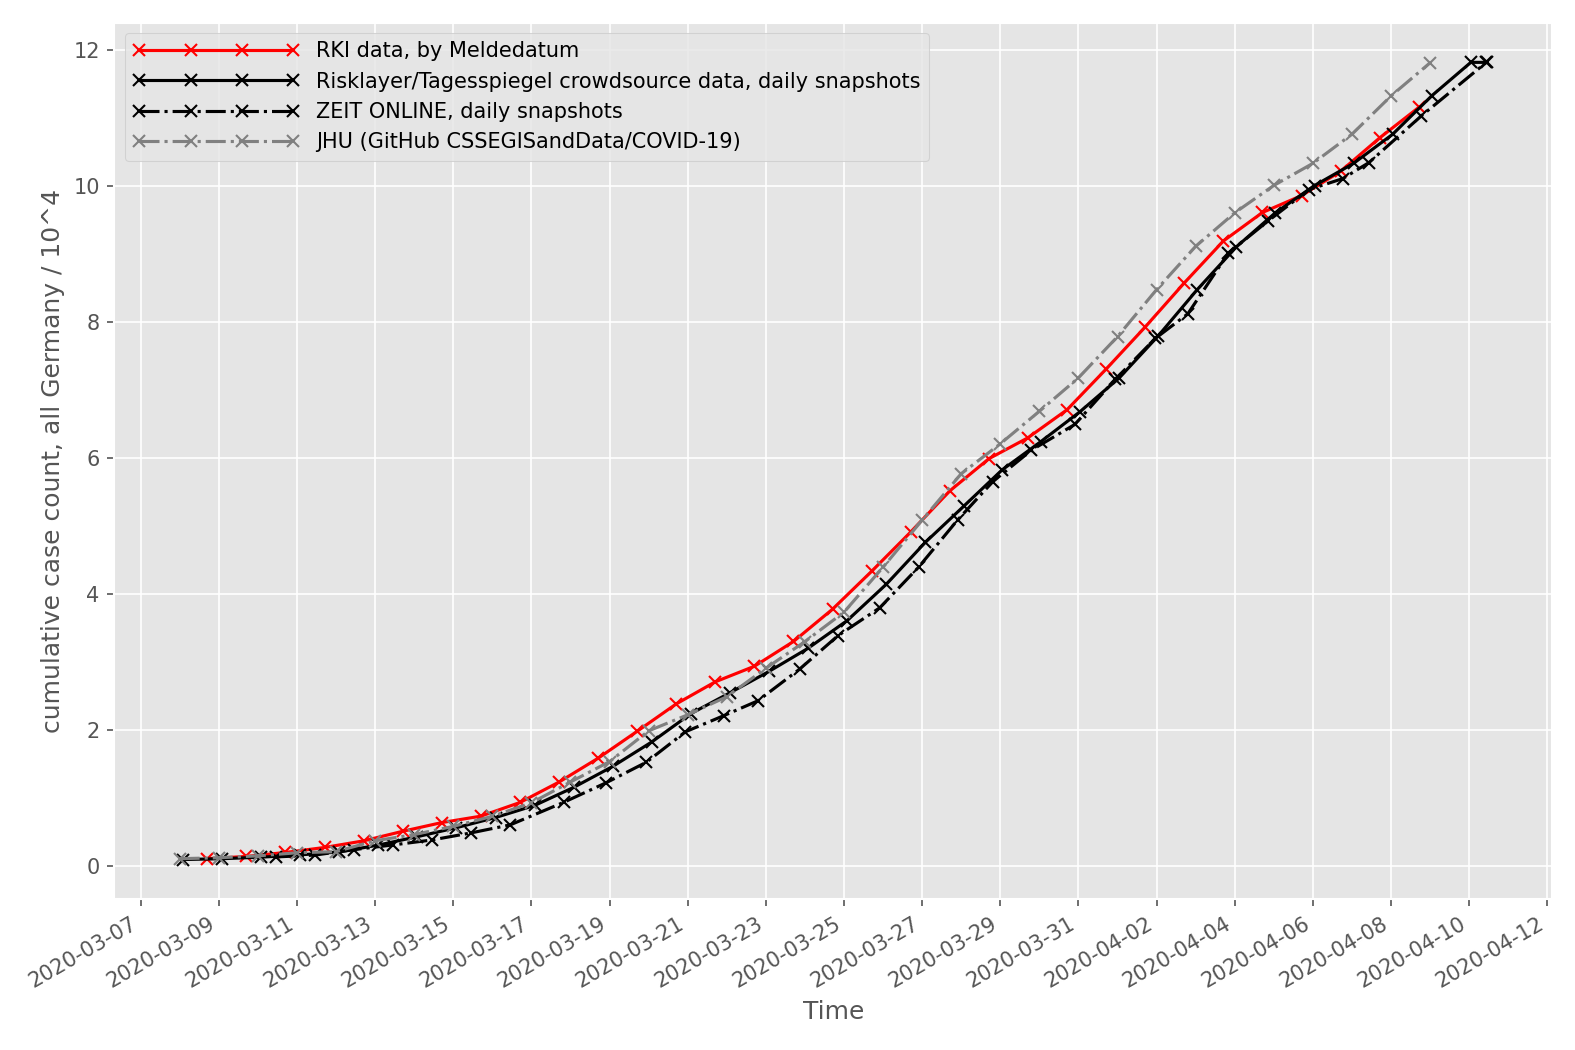
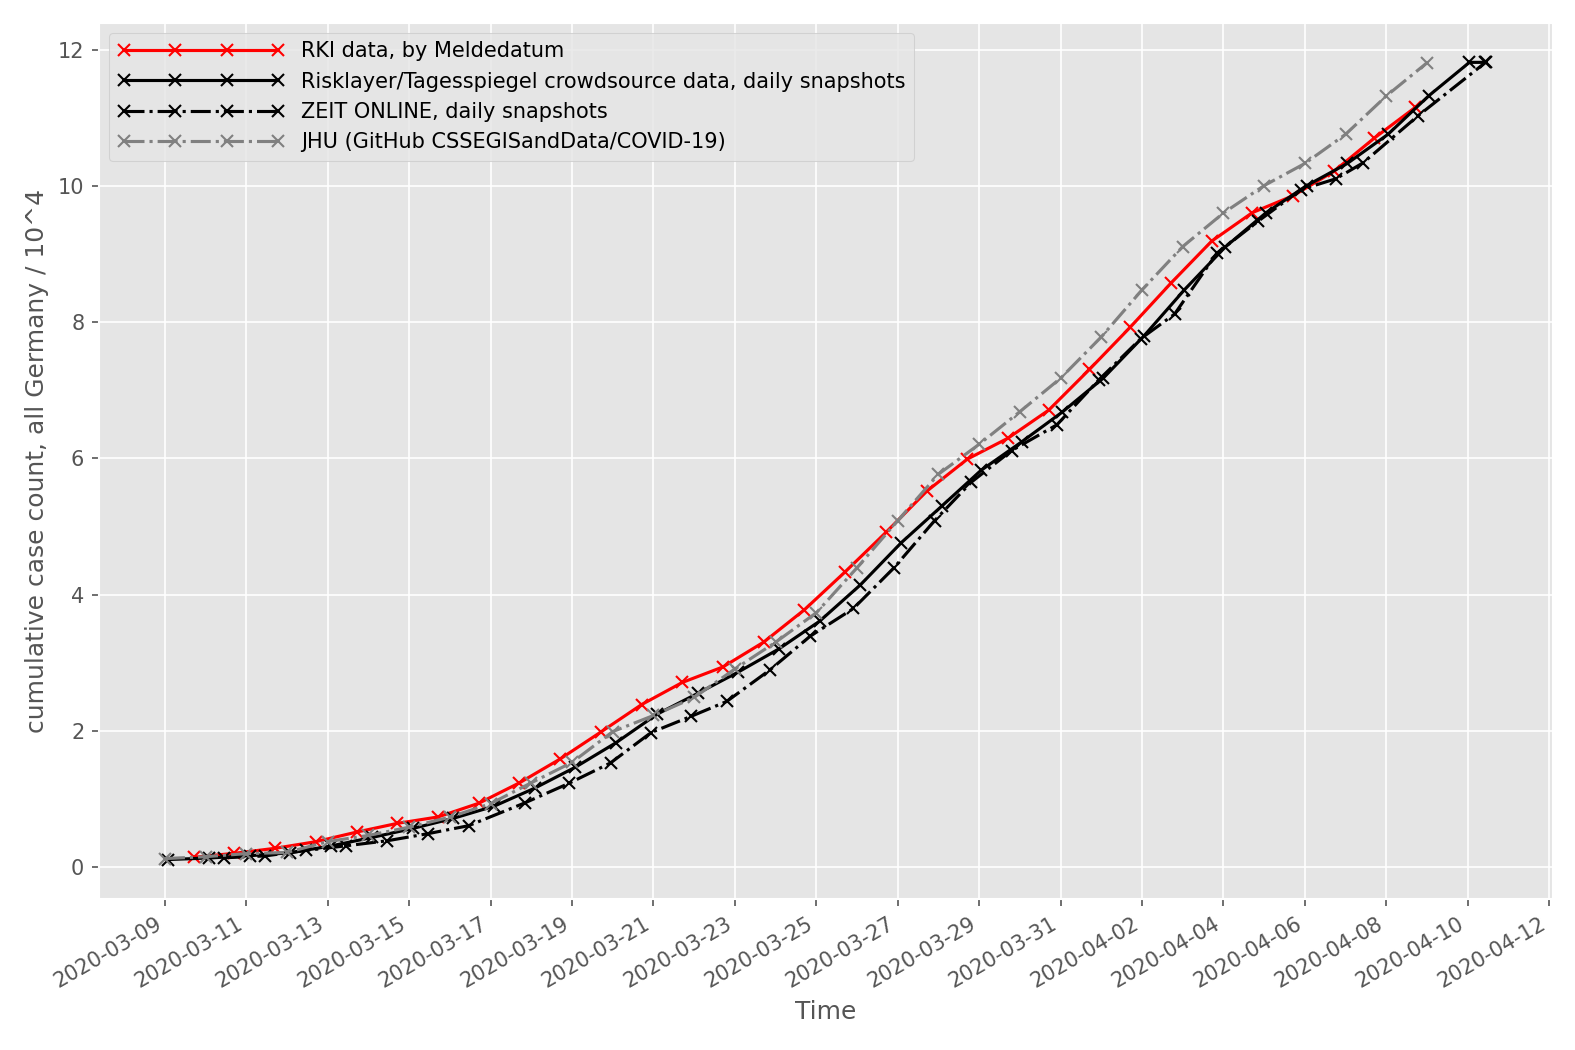
landing page: remove bokeh, add diffplot
with lightbox

Changed region(s): [[0.0, 0.0305, 0.9333, 0.8533], [0.0, 0.8533, 0.9644, 0.9752], [0.0, 0.1829, 0.0311, 0.2438]]

diff --git a/gae/static/index.html b/gae/static/index.html
@@ -12,13 +12,7 @@
       defer
       src="https://use.fontawesome.com/releases/v5.3.1/js/all.js"
     ></script>
-        
-        
-<script type="text/javascript" src="https://cdn.bokeh.org/bokeh/release/bokeh-2.0.0.min.js" integrity="sha384-5Y+xuMRAbgBj/2WKUiL8yzV4fBFic1HJPo2hT3pq2IsEzbsJjj8kT2i0b1lZ7C2N" crossorigin="anonymous"></script>
-<script type="text/javascript">
-    Bokeh.set_log_level("info");
-</script>
-        
+
     <style media="screen">
       body {
         display: flex;
@@ -30,6 +24,9 @@
         flex: 1;
       }
     </style>
+    <link rel="stylesheet" href="https://cdn.jsdelivr.net/npm/magnific-popup@1.1.0/dist/magnific-popup.css">
+    <script src="https://cdnjs.cloudflare.com/ajax/libs/zepto/1.2.0/zepto.min.js"></script>
+    <script src="https://cdnjs.cloudflare.com/ajax/libs/magnific-popup.js/1.1.0/jquery.magnific-popup.min.js"></script>
   </head>
   <body>
     <div id="wrapper">
@@ -50,61 +47,22 @@
         <div class="container">
           <p class="title is-4">Data sources in comparison</p>
           <div>
-            
-
-
-
-
-
-          <div class="bk-root" id="5215a051-640b-432c-9ba5-1f694947b068" data-root-id="1188"></div>
-
-            
-        <script type="application/json" id="1585">
[1 lines of base64/hex data omitted]
-        </script>
-        <script type="text/javascript">
-          (function() {
-            var fn = function() {
-              Bokeh.safely(function() {
-                (function(root) {
-                  function embed_document(root) {
-                    
-                  var docs_json = document.getElementById('1585').textContent;
-                  var render_items = [{"docid":"ad71a2e4-027a-4333-a69f-d3ea3100f84d","root_ids":["1188"],"roots":{"1188":"5215a051-640b-432c-9ba5-1f694947b068"}}];
-                  root.Bokeh.embed.embed_items(docs_json, render_items);
-                
-                  }
-                  if (root.Bokeh !== undefined) {
-                    embed_document(root);
-                  } else {
-                    var attempts = 0;
-                    var timer = setInterval(function(root) {
-                      if (root.Bokeh !== undefined) {
-                        clearInterval(timer);
-                        embed_document(root);
-                      } else {
-                        attempts++;
-                        if (attempts > 100) {
-                          clearInterval(timer);
-                          console.log("Bokeh: ERROR: Unable to run BokehJS code because BokehJS library is missing");
-                        }
-                      }
-                    }, 10, root)
-                  }
-                })(window);
-              });
-            };
-            if (document.readyState != "loading") fn();
-            else document.addEventListener("DOMContentLoaded", fn);
-          })();
-        </script>
+            <a href="static/case-rate-rw-2020-04-10.png" class="image-link">
+              <img src="static/case-rate-rw-2020-04-10.png" />
+            </a>
           </div>
         <div>
         <span class="is-size-7"><br /></span>
+          cases over time:
           <span class="icon"><i class="fas fa-file-image fa-lg"></i></span>
           <a href="static/data-sources-comparison-2020-04-10.png" class="is-size-6 is-family-monospace">PNG</a>
           <span class="icon"><i class="fas fa-file-pdf fa-lg"></i></span>
           <a href="static/data-sources-comparison-2020-04-10.pdf" class="is-size-6 is-family-monospace">PDF</a>
+          , case rate over time:
+          <span class="icon"><i class="fas fa-file-image fa-lg"></i></span>
+          <a href="static/case-rate-rw-2020-04-10.png" class="is-size-6 is-family-monospace">PNG</a>
+          <span class="icon"><i class="fas fa-file-pdf fa-lg"></i></span>
+          <a href="static/case-rate-rw-2020-04-10.pdf" class="is-size-6 is-family-monospace">PDF</a>
         </div>
         </div>
       </section>
@@ -357,4 +315,12 @@
       </div>
     </footer>
   </body>
+    <script>
+    $(document).ready(function() {
+      $('.image-link').magnificPopup(
+        {
+          type:'image',
+        });
+    });
+    </script>
 </html>

diff --git a/tools/plot-compare-sources.py b/tools/plot-compare-sources.py
@@ -34,6 +34,7 @@ import pandas as pd
 import matplotlib
 import matplotlib.pyplot as plt
 import matplotlib.dates as mdates
+import matplotlib.ticker as ticker
 
 import bokeh.plotting
 import bokeh.models
@@ -198,60 +199,26 @@ def main():
         linestyle="None", marker="x", color="black",
     )
     df_rki_case_rate_rw.plot(linestyle="solid", marker=None, color="black", ax=ax)
-    # df_rl_case_rate_rw.plot(linestyle="solid", marker=None, color="black", ax=ax)
     df_jhu_case_rate_rw.plot(linestyle="dashdot", marker=None, color="gray", ax=ax)
-    # df_rl["cases_change_per_day"].plot(
-    #     linestyle="solid", marker="x", color="black", ax=ax
-    # )
-    # df_mixed_data["cases_change_per_day"].plot(
-    #     linestyle="dashdot", marker="x", color="black", ax=ax
-    # )
-    # df_jhu["cases_change_per_day"].plot(
-    #     linestyle="dashdot", marker="x", color="gray", ax=ax
-    # )
 
     ax.legend(
         [
             'raw RKI data, by date of report ("Meldedatum")',
             "RKI rolling window mean (width: 5 days)",
-            # "RL rwdw",
-            "JHU rolling window mean (width: 5 days)"
-            # "Risklayer/Tagesspiegel crowdsource data, daily snapshots",
-            # "ZEIT ONLINE, daily snapshots",
-            # "JHU (GitHub CSSEGISandData/COVID-19)",
+            "JHU rolling window mean (width: 5 days)",
         ],
         numpoints=4,
         handlelength=8,
         loc="upper left",
     )
-
-    # ax.xaxis.set_major_locator(mdates.DayLocator(interval=2))
-
     plt.xlabel("")
     plt.ylabel("COVID-19 cumulative case count, change per day (all Germany)")
-    # plt.yscale("log")
-    # ax.set_ylim(bottom=600)
-    # ax.set_yticks([500, 1000, 1500, 2000, 2500, 3000, 3500, 5000, 7000, 9000])
-    import matplotlib.ticker as ticker
-
-    ax.yaxis.set_major_formatter(ticker.FuncFormatter(lambda y, _: "{:g}".format(y)))
-    # plt.title("COVID-19 case count, Germany, comparison of data sources")
-    # set_title('Override command rate (from both DC/OS repositories)')
-    # set_subtitle('Arithmetic mean over rolling time window')
-    # plt.tight_layout(rect=(0, 0, 1, 0.95))
-
     plt.tight_layout()
-    fig_filepath_wo_ext = (
-        f"gae/static/data-sources-comparison-case-rate-rw-{NOW.strftime('%Y-%m-%d')}"
-    )
+    fig_filepath_wo_ext = f"gae/static/case-rate-rw-{NOW.strftime('%Y-%m-%d')}"
     plt.savefig(fig_filepath_wo_ext + ".png", dpi=150)
     plt.savefig(fig_filepath_wo_ext + ".pdf")
-
-    # title=f"Generated at {now.strftime('%Y-%m-%d %H:%M UTC')}",
-
     # plt.show()
-
-    # plot_with_bokeh(df_rki, df_jhu, df_mixed_data, df_rl)
+    plot_with_bokeh(df_rki, df_jhu, df_mixed_data, df_rl)
 
 
 def _set_common_bokeh_fig_props(fig):
@@ -408,10 +375,10 @@ def plot_with_bokeh(df_rki, df_jhu, df_mixed_data, df_rl):
     template = templ_env.get_template("gae/static/index.html.template")
 
     html = bokeh.embed.file_html(
-        column(fig, figdiff, sizing_mode="stretch_both"),
+        column(fig, fig, sizing_mode="stretch_both"),
         template=template,
         resources=bokeh.resources.CDN,
-        template_variables={"today_string": NOW.strftime("%Y-%m-%d")},
+        template_variables={"today_string": NOW.strftime("%Y-%m-%d"),},
     )
 
     with open("gae/static/index.html", "wb") as f:
